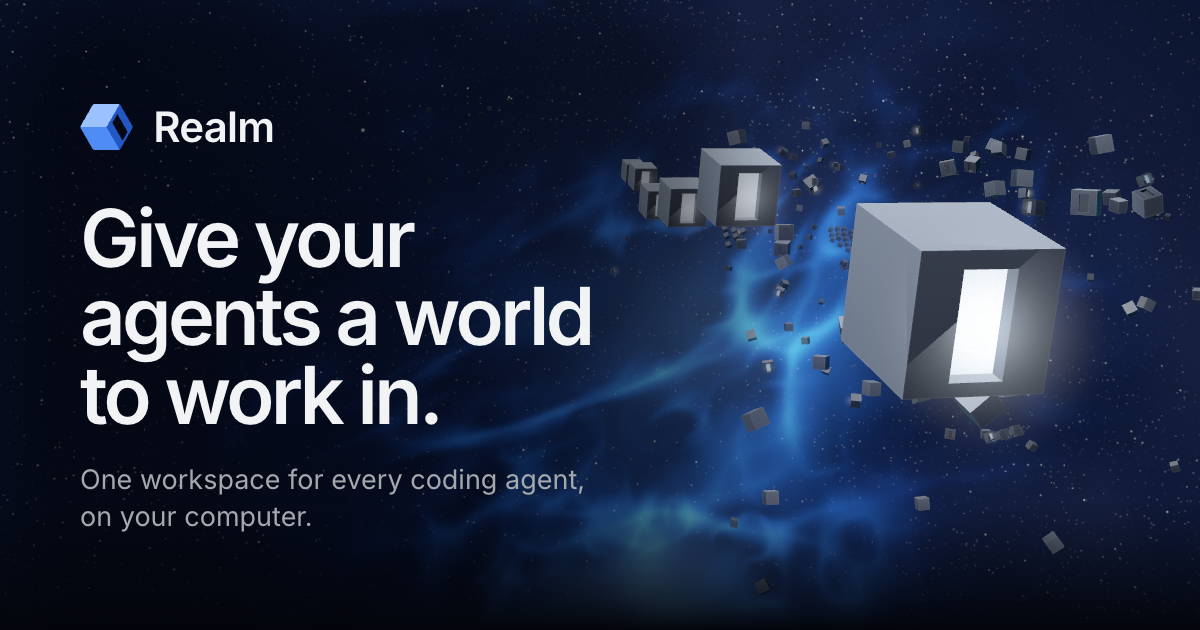
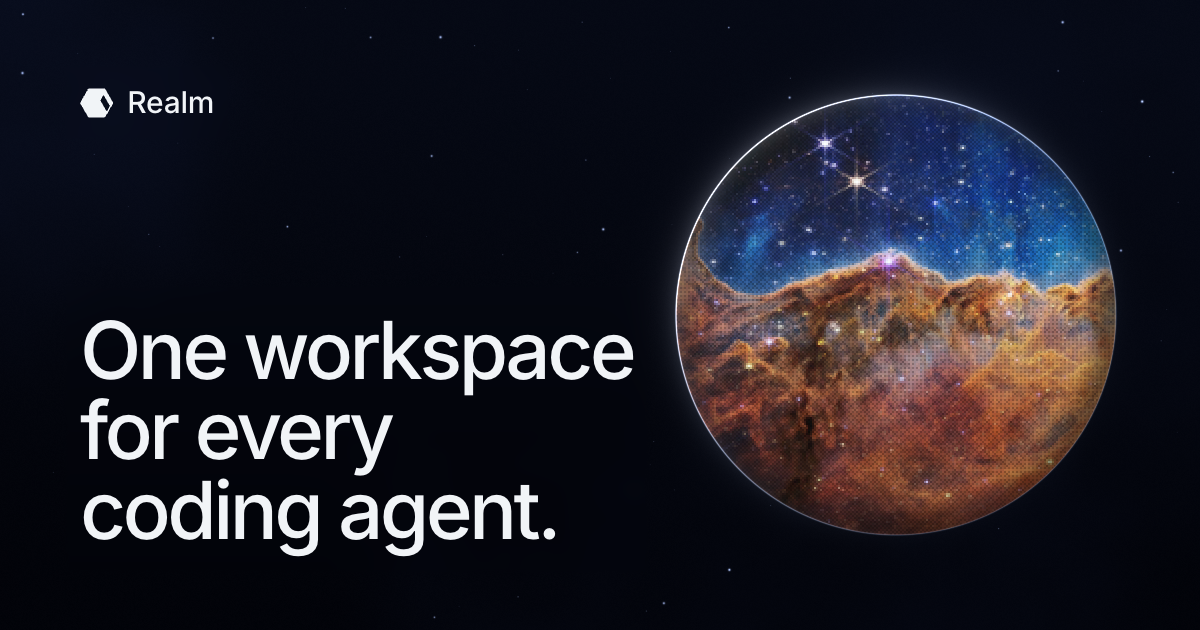
Make the share image the new hero: the ring onto Cosmic Cliffs, the headline and the mark
/share now lays out the landing page's first screen at 1200 x 630, drawn by the hero's own
Aperture and World, so no star sits under the words. capture-share-images.mjs waits for the
ring and the print instead of the changelog's field for it, reads the alt text from
scripts/share-image.alt.txt, and takes the card alone with REALM_SHARE_ONLY=card.

diff --git a/site/app/share/page.tsx b/site/app/share/page.tsx
@@ -1,56 +1,25 @@
 import type { Metadata } from "next"
 
-import { Arrival } from "@/components/changelog/Field"
-import { Wordmark } from "@/components/Wordmark"
-import { releases } from "@/lib/changelog"
-import { CARD, DOOR, WORDS } from "@/lib/og/layout"
-import { site } from "@/lib/site"
+import { ShareCard } from "@/components/landing/ShareCard"
+import worlds from "@/content/worlds.json"
 
 export const metadata: Metadata = {
   title: "Share image",
   robots: { index: false, follow: false },
 }
 
-/** The sky's realm for this card: the newest release's, at the start of the route. */
-const REALM = 0
+function webb() {
+  const found = worlds.find((w) => w.id === "webb")
+  if (!found) throw new Error('no world "webb" in content/worlds.json')
+  return found
+}
 
 /**
  * The source for the site's share images. scripts/capture-share-images.mjs opens this at 1200 × 630
- * and saves the frame as app/opengraph-image.png and app/twitter-image.png; nothing links here.
- *
- * One of the landing page's realms with its doorway lit, more of them going away behind it into the
- * nebula, and the words on the dark side of the sky, where the field is dimmed under them. The field
- * is the changelog's arrival at a release's doorway, which holds a realm at the size a card can carry;
- * the changelog's own cards (lib/og/card.tsx) are set on the same layout (lib/og/layout.ts). The
- * page's closing line leads, since the card has the picture it describes; the tagline says what Realm
- * is under it. The boxes are fixed in px from the left and the top and the realm is held to the right,
- * so a wider frame (GitHub's 1280 × 640) re-lays rather than stretches.
+ * and saves the frame as app/opengraph-image.png and app/twitter-image.png; nothing links here. It is
+ * the landing page's first screen at a card's size: the hero's ring onto Cosmic Cliffs, its headline
+ * and the mark.
  */
 export default function SharePage() {
-  return (
-    <main className="relative h-[100dvh] overflow-hidden">
-      <div aria-hidden className="pointer-events-none fixed inset-0 -z-20 bg-[#03050b]" />
-      <Arrival release={REALM} total={releases.length} dark={false} />
-      <div
-        aria-hidden
-        data-field-anchor="s:door"
-        className="absolute"
-        style={{
-          right: CARD.width - DOOR.left - DOOR.width,
-          top: `${(DOOR.top / CARD.height) * 100}%`,
-          width: DOOR.width,
-          height: `${(DOOR.height / CARD.height) * 100}%`,
-        }}
-      />
-      <div
-        data-field-anchor="c:title"
-        className="absolute flex flex-col justify-center"
-        style={{ left: WORDS.left, top: WORDS.top, width: WORDS.width, bottom: CARD.height - WORDS.top - WORDS.height }}
-      >
-        <Wordmark size="display" className="text-ink" />
-        <h1 className="mt-10 text-[80px] leading-[0.98] font-[580] tracking-[-0.05em] text-ink">Give your agents a world to work in.</h1>
-        <p className="mt-7 max-w-[30ch] text-[27px] leading-[1.35] text-ink-2">{site.tagline}</p>
-      </div>
-    </main>
-  )
+  return <ShareCard world={webb()} />
 }

diff --git a/site/components/landing/ShareCard.tsx b/site/components/landing/ShareCard.tsx
@@ -1,0 +1,39 @@
+"use client"
+
+import { useRef } from "react"
+
+import { Aperture } from "./Aperture"
+import { Mark } from "./Mark"
+import { World } from "./World"
+import s from "./landing.module.css"
+
+/**
+ * The hero at a share card's size: the mark and the headline on deep navy, and beside them the ring
+ * opening onto the hero's world. The Aperture keeps every star out from under the words it marks
+ * `data-clear`, as it does on the page. The boxes are fixed in px from the left, so a wider frame
+ * (GitHub's 1280 × 640) re-lays rather than stretches.
+ */
+export function ShareCard({ world }: { world: { file: string } }) {
+  const ring = useRef<HTMLDivElement>(null)
+  return (
+    <main className={`${s.page} relative h-[100dvh] overflow-hidden`}>
+      <div ref={ring} className="absolute" style={{ left: 676, top: 95, width: 440, height: 440 }}>
+        <World file={world.file} x={0.4} y={0.4} className={s.ringWorld} />
+      </div>
+      <Aperture ring={ring} className={s.sky} />
+      <div className="absolute flex flex-col justify-between" style={{ left: 80, top: 80, bottom: 80, width: 560 }}>
+        <p className="inline-flex items-center gap-[14px] self-start text-[30px] font-medium tracking-[-0.01em]" data-clear>
+          <Mark className="h-[40px] w-auto" />
+          <span>Realm</span>
+        </p>
+        <h1 className="self-start text-[80px] leading-none font-medium tracking-[-0.045em]" data-clear>
+          One workspace
+          <br />
+          for every
+          <br />
+          coding agent.
+        </h1>
+      </div>
+    </main>
+  )
+}
